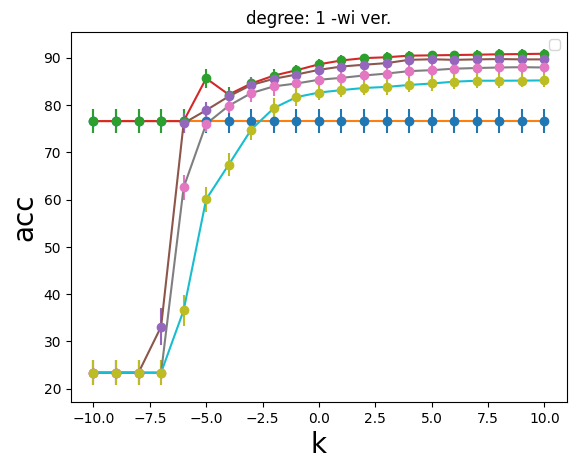
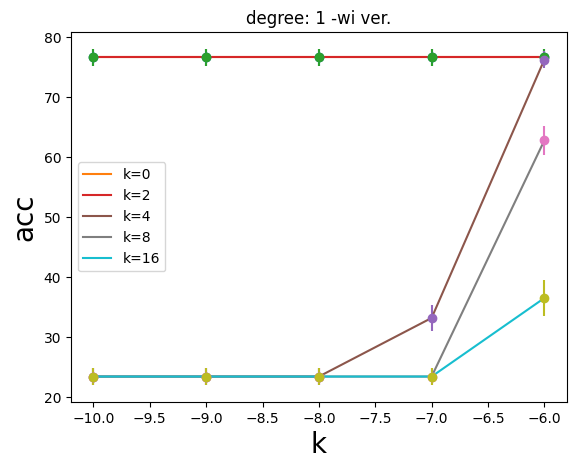
fix legend

diff --git a/svm.py b/svm.py
@@ -191,6 +191,7 @@ def fix_C_plot(cv_tenfold_x, cv_tenfold_y, xt, yt, ks):
 def false_positive_error_plot(cv_tenfold_x, cv_tenfold_y):
 
     xcoordinate = [k for k in range(-10, 11)]
+    xsimp = [k for k in range(-10, -5)]
 
     for degree in range(1, 5):
 
@@ -229,9 +230,9 @@ def false_positive_error_plot(cv_tenfold_x, cv_tenfold_y):
         lg = []
         for i in range(len(mean_vecs)):
             plt.errorbar(xcoordinate, mean_vecs[i], yerr=std_vecs[i],fmt='o',capthick=2)
-            ll = plt.plot(xcoordinate, mean_vecs[i])
+            ll, = plt.plot(xcoordinate, mean_vecs[i], label=f'line {i}')
             lg.append(ll)
-        plt.legend(handles=[ll for ll in lg], labels = ['k=0', 'k=2', 'k=4', 'k=8', 'k=16'], loc='best')
+        plt.legend(handles=lg, labels = ['k=0', 'k=2', 'k=4', 'k=8', 'k=16'])
         plt.savefig(title, bbox_inches='tight')
 
         plt.clf()
